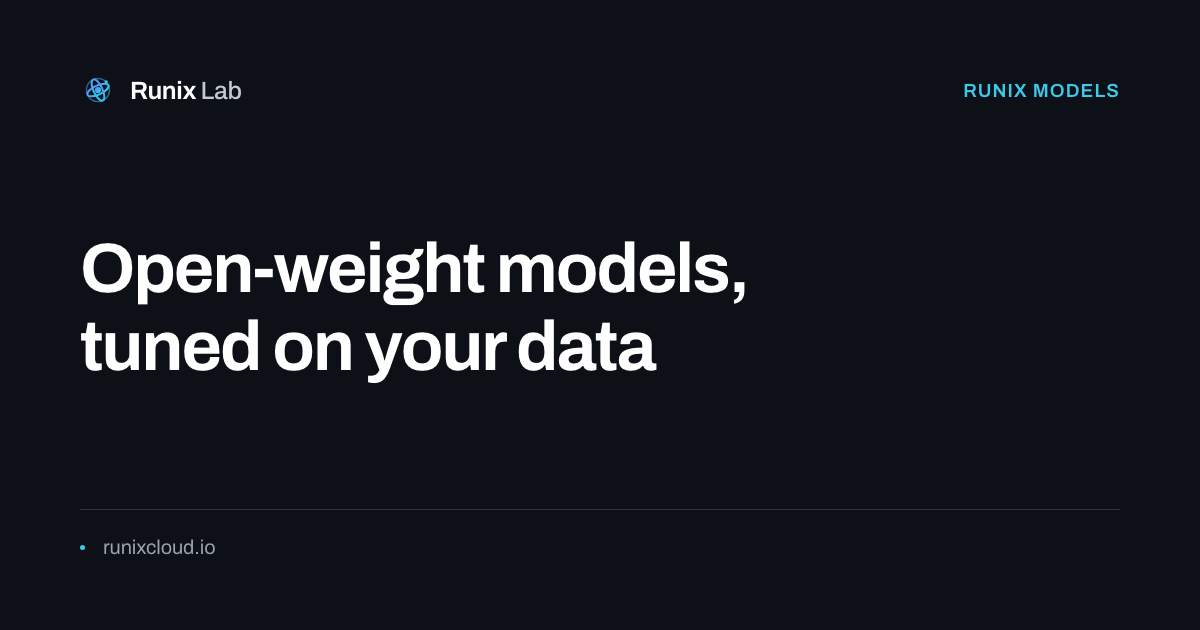
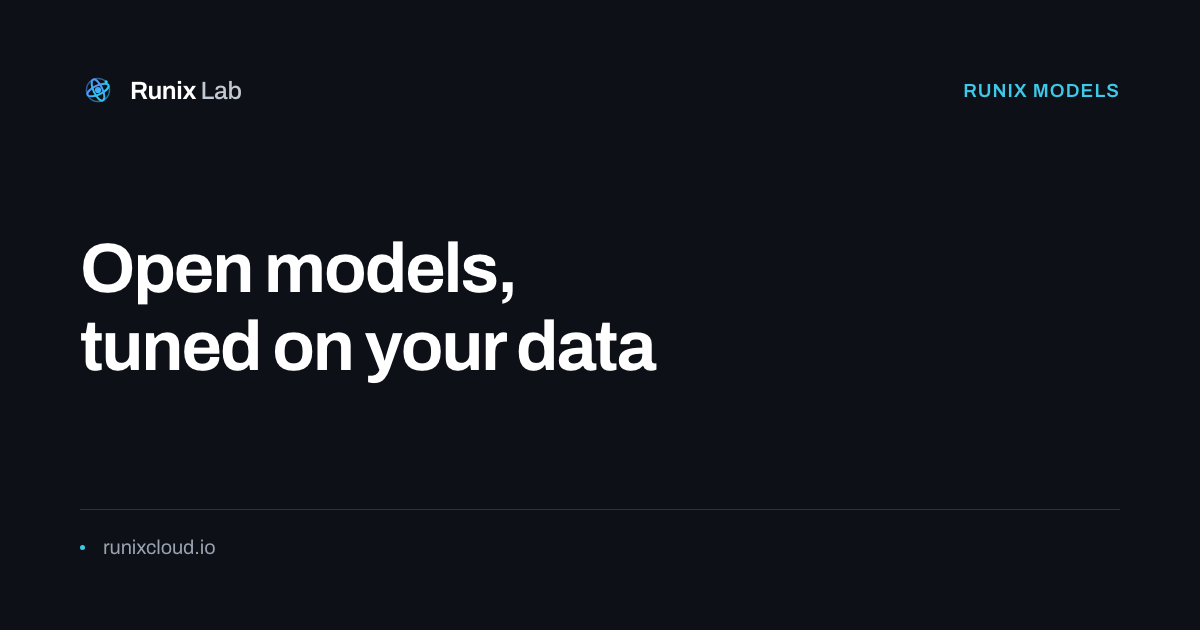
og: Models card follows its new heading

Changed region(s): [[0.2158, 0.3619, 0.6167, 0.4825]]

diff --git a/models.html b/models.html
@@ -21,11 +21,11 @@
 <meta property="og:type" content="website">
 <meta property="og:url" content="https://runixcloud.io/models">
 <meta property="og:site_name" content="Runix Lab">
-<meta property="og:image" content="https://runixcloud.io/assets/og/models.png?v=9302bde1">
+<meta property="og:image" content="https://runixcloud.io/assets/og/models.png?v=aebe1883">
 <meta property="og:image:width" content="1200">
 <meta property="og:image:height" content="630">
 <meta name="twitter:card" content="summary_large_image">
-<meta name="twitter:image" content="https://runixcloud.io/assets/og/models.png?v=9302bde1">
+<meta name="twitter:image" content="https://runixcloud.io/assets/og/models.png?v=aebe1883">
 <link rel="icon" href="assets/favicon.svg?v=11" type="image/svg+xml">
 <link rel="preload" href="assets/fonts/archivo-latin.woff2?v=2" as="font" type="font/woff2" crossorigin>
 <link rel="stylesheet" href="assets/style.css?v=64">
